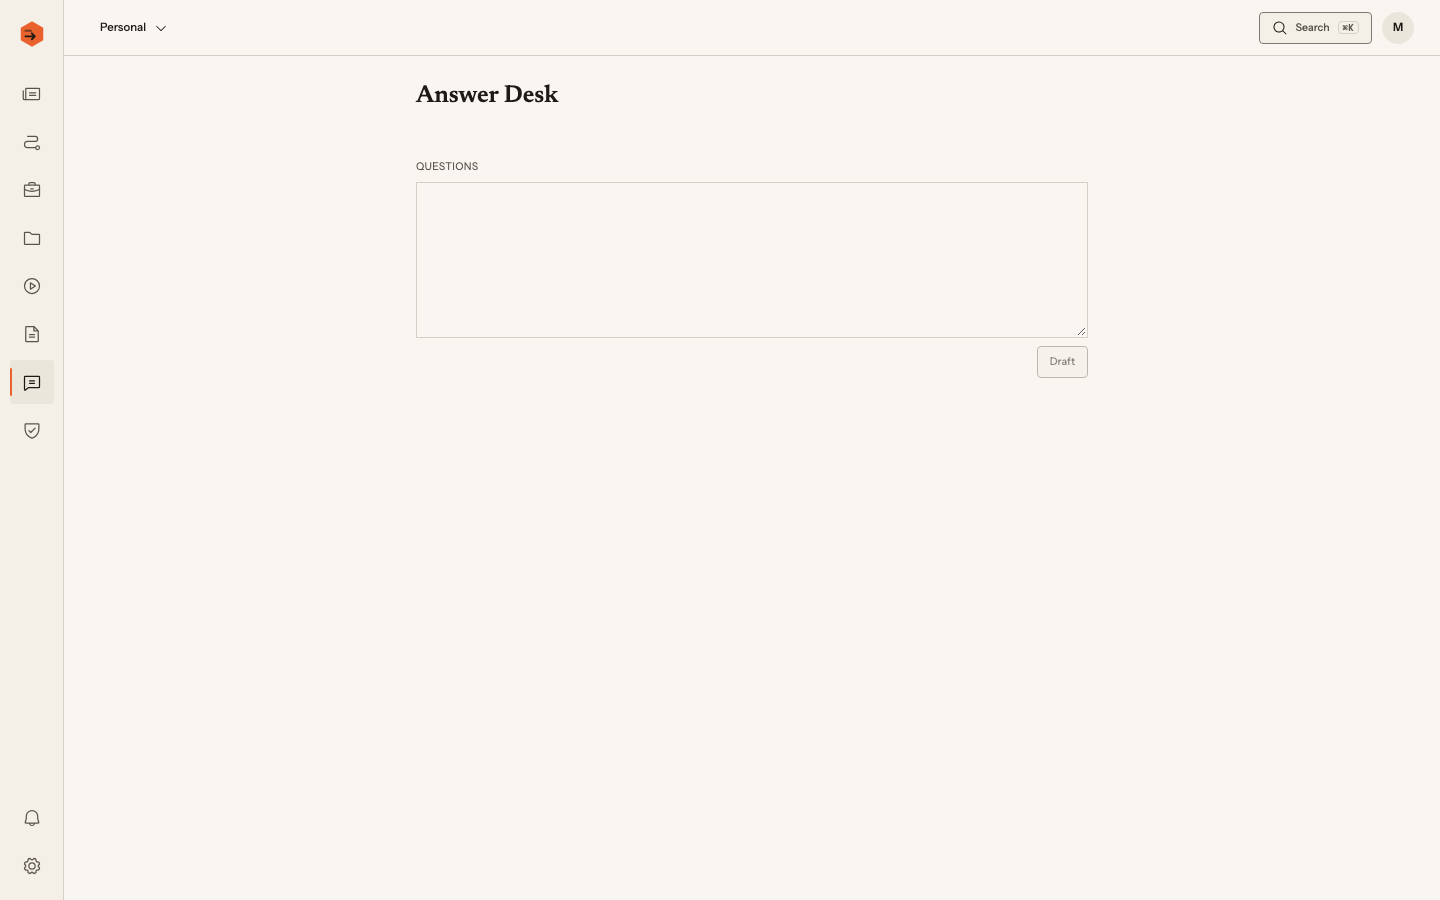
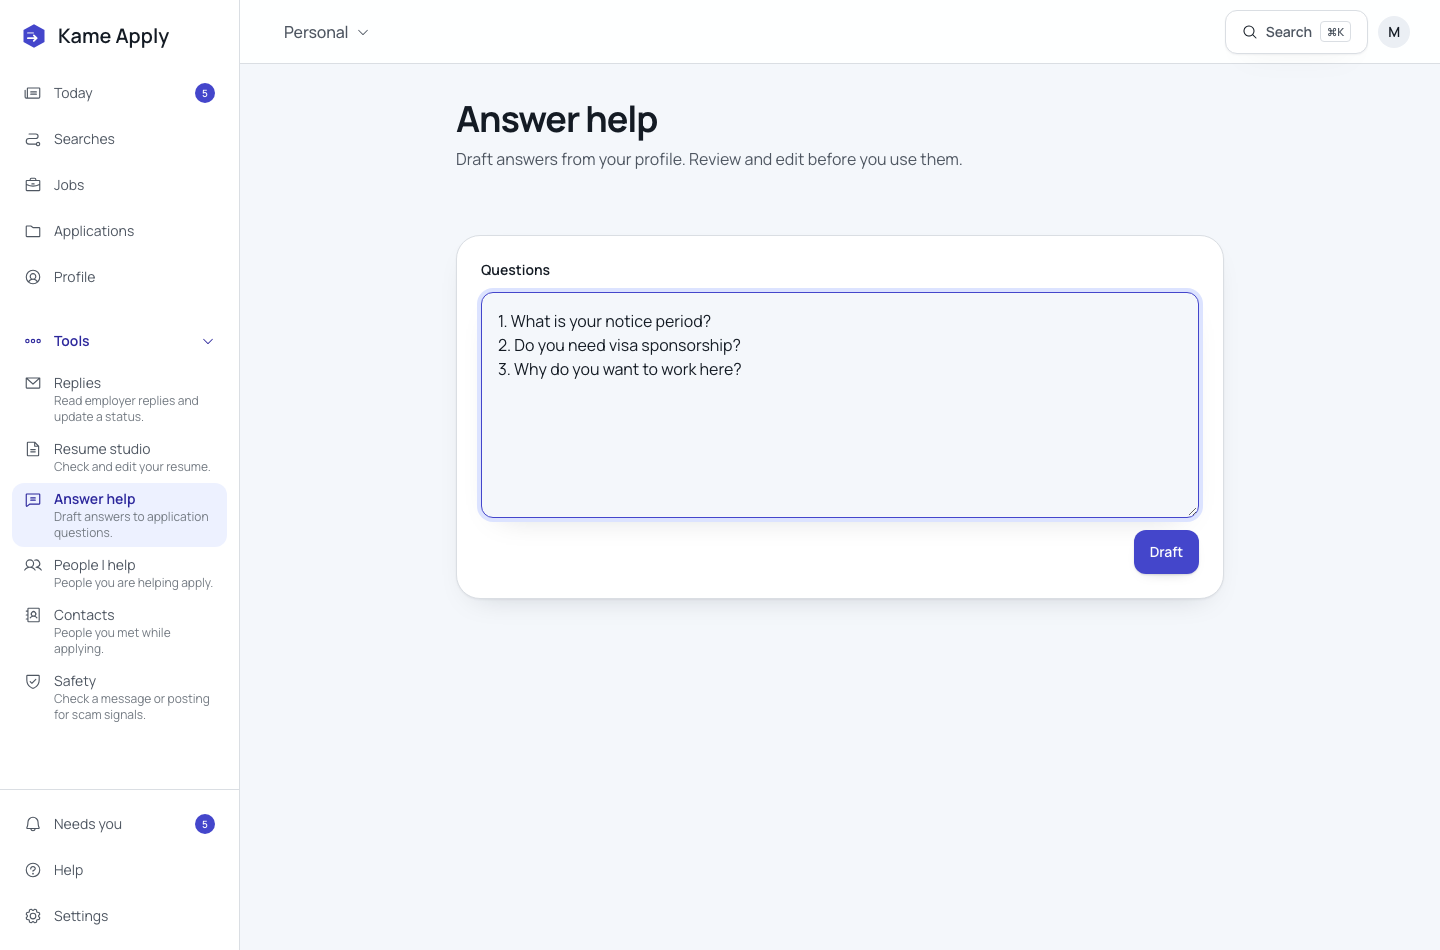
docs: refresh README screenshots and feature overview

diff --git a/README.md b/README.md
@@ -2,7 +2,7 @@
 
 **Find real jobs worldwide, strengthen your resume with live market evidence, tailor each application, and apply faster, while you stay in control of every irreversible step.**
 
-A multi-tenant job-search workbench: Tracks per role, scheduled discovery across ATS boards and public feeds, match scoring, scam safety checks, truthful resume studio and per-job tailoring, Answer Desk, assisted apply via browser extension or cloud runner, and a command center for the whole pipeline. Built as a **pnpm + Turborepo** (TypeScript) and **uv** (Python) monorepo: **Vue 3 + Nuxt 4** SPA, **FastAPI** (all business logic), **PostgreSQL 17** with **pgvector** and **RLS**, **DBOS** durable workflows, **PydanticAI**, and a **WXT** browser extension.
+A multi-tenant job-search workbench: one search per role, scheduled discovery across ATS boards and public feeds, match scoring, scam safety checks, a truthful resume studio and per-job tailoring, answer help, assisted apply through a browser extension or cloud runner, and a command center for the whole pipeline. Built as a **pnpm + Turborepo** (TypeScript) and **uv** (Python) monorepo: **Vue 3 + Nuxt 4** SPA, **FastAPI** (all business logic), **PostgreSQL 17** with **pgvector** and **RLS**, **DBOS** durable workflows, **PydanticAI**, and a **WXT** browser extension.
 
 <p align="center">
   <img src="./docs/screenshots/sign-in.png" alt="Kame Apply sign-in" width="900" />
@@ -12,8 +12,8 @@ A multi-tenant job-search workbench: Tracks per role, scheduled discovery across
   <a href="#features">Features</a> ·
   <a href="#screenshots">Screenshots</a> ·
   <a href="#tech-stack">Tech Stack</a> ·
-  <a href="#getting-started">Getting Started</a> ·
-  <a href="#documentation">Documentation</a>
+  <a href="#documentation">Documentation</a> ·
+  <a href="#design">Design</a>
 </p>
 
 <p align="center">
@@ -40,53 +40,62 @@ A multi-tenant job-search workbench: Tracks per role, scheduled discovery across
 - Guided profile interview to fill gaps (metrics, tools, scope, outcomes)
 - **Answer bank** for forms: work authorization, notice period, salary, relocation, EEO defaults
 - **Writing voice** from your own samples (emails, Slack, letters); free-text answers match your style
-- Sensitive data (government IDs, bank) is never stored
+- Sensitive data (government IDs, bank details) is never stored
 
-### Tracks & criteria
+### Searches and criteria
 
-- One **Track** per role (Software Developer, AI Engineer, Product Manager, …) with its own criteria, sources, schedule, autonomy, resume variant, and pipeline
-- Hybrid criteria builder: describe the role in plain language, then edit structured chips and filters
-- Live preview of estimated matches; AI suggestions for synonyms, skills, and noise filters
-- Filters for titles, skills, seniority, remote/hybrid, salary, visa, company size, agencies, and more
+- One **search** per role (AI Engineer, Product Manager, Nurse, Electrician, ...) with its own criteria, sources, schedule, autonomy, resume variant, and pipeline
+- Describe the role in plain language, then edit structured chips and filters
+- Preview of estimated matches; AI suggestions for synonyms, skills, and noise filters
+- Filters for titles, skills, seniority, remote and hybrid work, salary, visa, company size, agencies, and industry-specific facets
 
-### Job discovery & matching
+### Job discovery and matching
 
-- Scheduled pulls from company ATS APIs (Greenhouse, Lever, Ashby, Workable, …), remote boards, RSS, schema.org career pages, forwarded email alerts, and extension clips
+- Scheduled pulls from company ATS APIs (Greenhouse, Lever, Ashby, Workable, ...), remote boards, RSS, schema.org career pages, forwarded email alerts, and extension clips
 - Normalize and dedupe across sources; expire closed posts; grow a company directory from public signals
-- Hard filters → rule score → embeddings → LLM fit only for top candidates
-- Per-job score, matched/missing skills, eligibility verdict, and salary/seniority fit
+- Hard filters, rule score, embeddings, then LLM fit only for top candidates
+- Per-job score, matched and missing skills, eligibility verdict, salary and seniority fit
+- **Fit ledger** checks each requirement against your profile and shows the evidence, or says plainly that there is none
 
-### Jobs board & safety
+### Jobs board and safety
 
 - Filterable research board: match score, risk badge, source, salary, location
 - Shortlist, skip (trains ranking), hide company, mark applied, prepare, or open with assist
-- **Risk levels** green / yellow / red with reasons; yellow/red pause automation
-- PII guard on form fields; Check-this for recruiter messages and take-home links
-- No CAPTCHA solvers, stealth plugins, or proxy rotation. Challenges hand control to you
+- **Risk levels** green, caution, and high risk with reasons; yellow and red pause automation
+- **Check this** for recruiter messages and take-home links
+- PII guard on form fields; sensitive values always stop for the human
+- No CAPTCHA solvers, stealth plugins, or proxy rotation. A challenge hands control to you
 
-### Resume Studio & Recruiter Lens
+### Resume studio and tailoring
 
-- Critique (ATS parseability, impact, keywords vs market), market insights from live postings
-- Improve a base resume per Track; every change is a diff with a reason
+- **Resume check**: ATS parseability, claims with proof, scanability, dates and titles, 6-second view, and what hiring software reads
+- **What employers ask** from live postings, with market insights for your role
+- Improve a base resume per search; every change is a diff with a reason
 - **Per-job tailor**: map posting requirements to Career Profile evidence; gaps stay gaps
-- Recruiter Lens: parse check, qualification fit grades, knockout prediction, 7-second skim, authenticity
 - ATS-safe PDF (Typst/RenderCV) and DOCX; optional cover letter in your voice
 
-### Apply assist & Answer Desk
+### Applying and answers
 
-- Autonomy per Track: `discover` → `prepare` → `assist` (default) → opt-in `auto-submit` on allowlisted ATS only
-- **Browser extension**: fill in your own session; LinkedIn/Indeed/JobStreet autofill is opt-in
+- Autonomy per search: find only, prepare, fill forms, or apply (opt-in and allowlisted ATS only)
+- **Browser extension**: fill in your own session; LinkedIn, Indeed, and JobStreet autofill is opt-in
 - **Cloud runner**: headless apply with durable checkpoints, live view, and takeover
-- You click Submit unless `auto-submit` policy allows it; never auto-submit on restricted platforms
-- **Answer Desk**: paste questions, draft in your voice, copy; restricted questions get notes only
+- You click Submit unless the apply policy allows otherwise; never auto-submit on restricted platforms
+- **Answer help**: paste application questions, draft in your voice, copy or save to the answer bank; restricted questions get notes only
 
-### Tracker, scheduling & agents
+### Tracker, replies, and people
 
-- Command center (Today): matches, Needs you inbox, Track cards, activity
-- Pipeline: new → shortlisted → preparing → ready → in progress → needs you → submitted → interview → offer
-- Per-Track schedules, quiet hours, daily caps, run history, notification prefs (in-app, email digest, push, Telegram)
-- Bring-your-own AI keys (Gemini, OpenAI, Anthropic, Groq, OpenRouter, Ollama) with budgets
-- **Claude Agent Bridge**: MCP server + Claude Code plugin so your own Claude works on workspace data (no credential relay)
+- **Applications** as a table or board: funnel from discovered to interview, status, method, submitted date, notes, and next step
+- **Replies**: paste an employer reply and accept its status suggestion
+- **People I help**: keep profiles for people you are helping apply
+- **Contacts**: add people you met while applying from a signature, profile, or CSV
+- Needs you inbox for every decision that waits on a human
+
+### Scheduling, AI, and integrations
+
+- Per-search schedules, quiet hours, daily caps, run history, and source health
+- Notification prefs: in-app, email digest, push, and Telegram
+- Bring-your-own AI keys (Gemini, OpenAI, Anthropic, Groq, OpenRouter, Ollama) or a free provider, with budgets
+- **Claude Agent Bridge**: MCP server and Claude Code plugin so your own Claude works on workspace data, with no credential relay
 
 ---
 
@@ -96,27 +105,31 @@ A multi-tenant job-search workbench: Tracks per role, scheduled discovery across
 | :----------------------------------------: | :------------------------------------: |
 | ![Sign in](./docs/screenshots/sign-in.png) | ![Today](./docs/screenshots/today.png) |
 
-|                  Tracks                  |                      Criteria                      |
-| :--------------------------------------: | :------------------------------------------------: |
-| ![Tracks](./docs/screenshots/tracks.png) | ![Criteria](./docs/screenshots/track-criteria.png) |
+|                  Searches                  |                      Search overview                      |
+| :----------------------------------------: | :-------------------------------------------------------: |
+| ![Searches](./docs/screenshots/tracks.png) | ![Search overview](./docs/screenshots/track-criteria.png) |
 
-|                      Track settings                      |                    Jobs                    |
-| :------------------------------------------------------: | :----------------------------------------: |
-| ![Track settings](./docs/screenshots/track-settings.png) | ![Jobs board](./docs/screenshots/jobs.png) |
+|                         How we work                         |                    Jobs                    |
+| :---------------------------------------------------------: | :----------------------------------------: |
+| ![Search automation](./docs/screenshots/track-settings.png) | ![Jobs board](./docs/screenshots/jobs.png) |
 
-|                  Profile                   |                     Studio                      |
-| :----------------------------------------: | :---------------------------------------------: |
-| ![Profile](./docs/screenshots/profile.png) | ![Resume Studio](./docs/screenshots/studio.png) |
+|                    Job reader                    |                      Profile                      |
+| :----------------------------------------------: | :-----------------------------------------------: |
+| ![Job detail](./docs/screenshots/job-detail.png) | ![Career profile](./docs/screenshots/profile.png) |
 
-|                Applications (board)                 |                Applications (table)                 |
-| :-------------------------------------------------: | :-------------------------------------------------: |
-| ![Board](./docs/screenshots/applications-board.png) | ![Table](./docs/screenshots/applications-table.png) |
+|                  Resume studio                  |                    Answer help                     |
+| :---------------------------------------------: | :------------------------------------------------: |
+| ![Resume studio](./docs/screenshots/studio.png) | ![Answer help](./docs/screenshots/answer-desk.png) |
 
-|                    Answer Desk                     |                  Safety                  |
-| :------------------------------------------------: | :--------------------------------------: |
-| ![Answer Desk](./docs/screenshots/answer-desk.png) | ![Safety](./docs/screenshots/safety.png) |
+|                     Applications                     |                  Safety                  |
+| :--------------------------------------------------: | :--------------------------------------: |
+| ![Applications](./docs/screenshots/applications.png) | ![Safety](./docs/screenshots/safety.png) |
 
-More captures and regenerate notes: [`docs/screenshots/README.md`](./docs/screenshots/README.md).
+|                     Inbox                      |                    Connect AI                     |
+| :--------------------------------------------: | :-----------------------------------------------: |
+| ![Inbox](./docs/screenshots/notifications.png) | ![Connect AI](./docs/screenshots/settings-ai.png) |
+
+Captured at 1440px in light theme. Notes and regeneration steps: [`docs/screenshots/README.md`](./docs/screenshots/README.md).
 
 ---
 
@@ -141,113 +154,6 @@ Full rationale: [`docs/tech-stack.md`](./docs/tech-stack.md). Product principles
 
 ---
 
-## Getting Started
-
-### Prerequisites
-
-- [Node.js](https://nodejs.org/) (see [`.nvmrc`](./.nvmrc)) and [pnpm](https://pnpm.io/) 10+
-- [uv](https://docs.astral.sh/uv/)
-- [Docker](https://www.docker.com/) (Postgres+pgvector, MinIO, Mailpit)
-- `jq`
-
-### 1. Clone and install
-
-```bash
-git clone https://github.com/sprmke/kame-apply.git
-cd kame-apply
-pnpm install
-uv sync --all-packages
-pnpm run setup:ai-tooling   # once; Cursor / Claude Code / OpenCode links
-```
-
-### 2. Environment
-
-```bash
-cp apps/api/.env.example apps/api/.env
-```
-
-Local defaults work with Compose. Optional: LLM API keys for AI features. See [`apps/api/.env.example`](./apps/api/.env.example) and [`docs/architecture/deployment.md`](./docs/architecture/deployment.md).
-
-### 3. Run locally
-
-```bash
-pnpm run dev:docker   # Postgres :5442, MinIO, Mailpit
-pnpm run dev          # migrate, then API :8100 + web :3100
-```
-
-Open [http://localhost:3100](http://localhost:3100). API health: [http://localhost:8100/api/v1/health](http://localhost:8100/api/v1/health).
-
-**VS Code / Cursor:** Terminal → Run Task for the same commands. `⇧⌘B` starts the full stack.
-
-Quality gate before a PR: `pnpm run ci:quality`.
-
----
-
-## Scripts
-
-| Command                                              | Description                                              |
-| ---------------------------------------------------- | -------------------------------------------------------- |
-| `pnpm run dev`                                       | Migrate + API + web (`./dev.sh`)                         |
-| `pnpm run dev:docker` / `stop:docker`                | Local Postgres, MinIO, Mailpit                           |
-| `pnpm run dev:api` / `dev:web`                       | One side only                                            |
-| `pnpm run lint` / `format` / `type-check` / `build`  | Quality                                                  |
-| `pnpm run test`                                      | pytest (API, runner) + Vitest (web, ui, extension)       |
-| `pnpm run audit:ui`                                  | Screenshot real routes at 375/820/1440; fail on overflow |
-| `pnpm run ci:quality`                                | Full CI gate                                             |
-| `pnpm run db:migrate` / `db:reset:local` / `db:seed` | Database                                                 |
-| `pnpm run gen:api-client`                            | OpenAPI → `packages/api-client`                          |
-| `pnpm run check:ai-tooling-sync`                     | Keep Cursor/Claude/OpenCode tooling aligned              |
-
-Deploy and migrate scripts are documented in [`docs/architecture/deployment.md`](./docs/architecture/deployment.md). Production writes need an explicit unlock word in-session.
-
----
-
-## Project structure
-
-```text
-apps/
-  web/                 # Vue 3 + Nuxt 4 (UI only)
-  api/                 # FastAPI: routers, services, models, AI, MCP
-  runner/              # Playwright cloud apply worker
-  extension/           # WXT + Vue side panel
-packages/
-  ui/                  # Signal components + tokens
-  api-client/          # Generated OpenAPI TypeScript client
-  py-core/             # Shared Python (adapters, utils)
-docs/
-  prd.md               # Authoritative product scope
-  tech-stack.md        # Authoritative stack
-  architecture/        # Overview, auth, RLS, deploy, …
-  phases/              # Build plan (phases 0–20)
-  guides/routes/       # Per-page behavior
-  screenshots/         # README portfolio images
-.agent/                # Canonical AI skills (symlinked into Cursor/Claude)
-```
-
----
-
-## Routes
-
-| Route                    | Access | Description                               |
-| ------------------------ | ------ | ----------------------------------------- |
-| `/login`, `/register`    | Public | Auth                                      |
-| `/`                      | Auth   | Today command center                      |
-| `/tracks`, `/tracks/:id` | Auth   | Tracks, criteria, runs, settings          |
-| `/jobs`                  | Auth   | Research board                            |
-| `/profile/*`             | Auth   | Career Profile, answers, voice, documents |
-| `/studio`                | Auth   | Resume Studio                             |
-| `/tailor/:trackJobId`    | Auth   | Per-job tailor + Recruiter Lens           |
-| `/applications`          | Auth   | Tracker (table / board)                   |
-| `/answers`               | Auth   | Answer Desk                               |
-| `/safety`                | Auth   | Flagged jobs & Check-this                 |
-| `/notifications`         | Auth   | Inbox                                     |
-| `/settings/*`            | Auth   | Workspace, AI keys, sources, integrations |
-| `/legal/*`               | Public | Privacy, terms, extension disclosure      |
-
-Full guides: [`docs/guides/routes/README.md`](./docs/guides/routes/README.md).
-
----
-
 ## Documentation
 
 | Doc                                                                | Purpose                                          |
@@ -257,6 +163,7 @@ Full guides: [`docs/guides/routes/README.md`](./docs/guides/routes/README.md).
 | [`docs/architecture/overview.md`](./docs/architecture/overview.md) | System diagram, invariants, modules              |
 | [`docs/phases/README.md`](./docs/phases/README.md)                 | Build plan and phase status                      |
 | [`docs/design/design-system.md`](./docs/design/design-system.md)   | Signal visual identity                           |
+| [`docs/guides/routes/README.md`](./docs/guides/routes/README.md)   | Per-page behavior guides                         |
 | [`docs/README.md`](./docs/README.md)                               | Full documentation index                         |
 | [`CLAUDE.md`](./CLAUDE.md)                                         | Always-loaded agent context                      |
 

diff --git a/docs/screenshots/README.md b/docs/screenshots/README.md
@@ -1,28 +1,22 @@
 # Screenshots
 
-Portfolio images for the main [README](../../README.md). Sourced from design captures under [`docs/design/screenshots/`](../design/screenshots/) (1440px, light).
+Portfolio images for the main [README](../../README.md).
 
 | File | View |
 | --- | --- |
-| `sign-in.png` | Auth / sign-in |
+| `sign-in.png` | Sign in |
 | `today.png` | Today command center |
-| `tracks.png` | Tracks list |
-| `track-criteria.png` | Track criteria builder |
-| `track-settings.png` | Track sources & autonomy |
-| `jobs.png` | Jobs research board |
+| `tracks.png` | Searches list |
+| `track-criteria.png` | One search: matches and status |
+| `track-settings.png` | One search: how we work |
+| `jobs.png` | Jobs board |
+| `job-detail.png` | Job reader with the fit ledger |
 | `profile.png` | Career Profile |
-| `studio.png` | Resume Studio |
-| `applications-board.png` | Applications kanban |
-| `applications-table.png` | Applications table |
-| `answer-desk.png` | Answer Desk |
-| `safety.png` | Safety / flagged jobs |
-| `notifications.png` | Notification center |
+| `studio.png` | Resume studio |
+| `answer-desk.png` | Answer help |
+| `applications.png` | Applications table |
+| `safety.png` | Safety: flagged jobs |
+| `notifications.png` | Inbox and Needs you |
+| `settings-ai.png` | Connect AI |
 
-Regenerate phase captures with the local stack running:
-
-```bash
-pnpm run dev
-CAPTURE=1 CAPTURE_PHASE=11 pnpm exec playwright test e2e/capture-screens.spec.ts
-```
-
-Then re-copy the chosen `*-1440-light.png` files into this folder with the names above.
+All captures are 1440px wide in light theme, from a local workspace seeded with demo data. Re-capture after a visual change, then replace the matching file here with the same name. Keep the demo data synthetic; never capture a real profile, resume, or answer bank.
